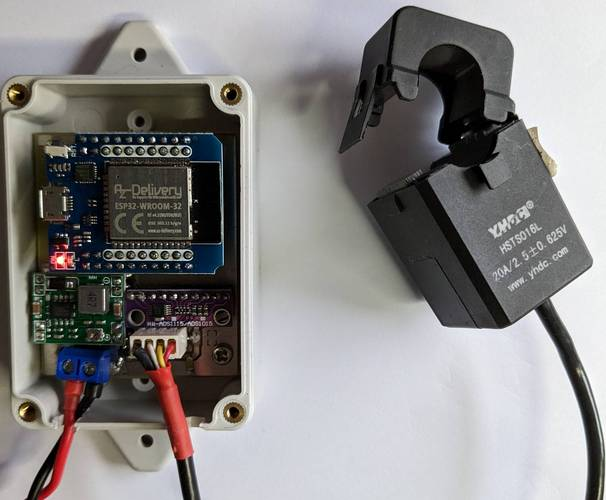
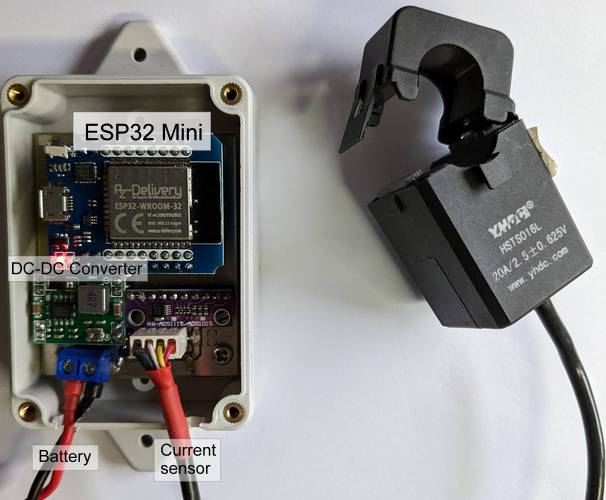
add text to images

diff --git a/Readme.md b/Readme.md
@@ -18,7 +18,7 @@ Schematic and borad design in the Eagle folder.
 Hardware
 ========
 * ESP32 board
-* Current sensor to measure the magnetic field 
+* Current sensor (Hall sensor to measure the magnetic field, or shunt resistor) 
 * Step-down regulator (DC-DC Buck converter)
   * Input: 10V-20V
   * Output: 5V (fixed or adjustable)
